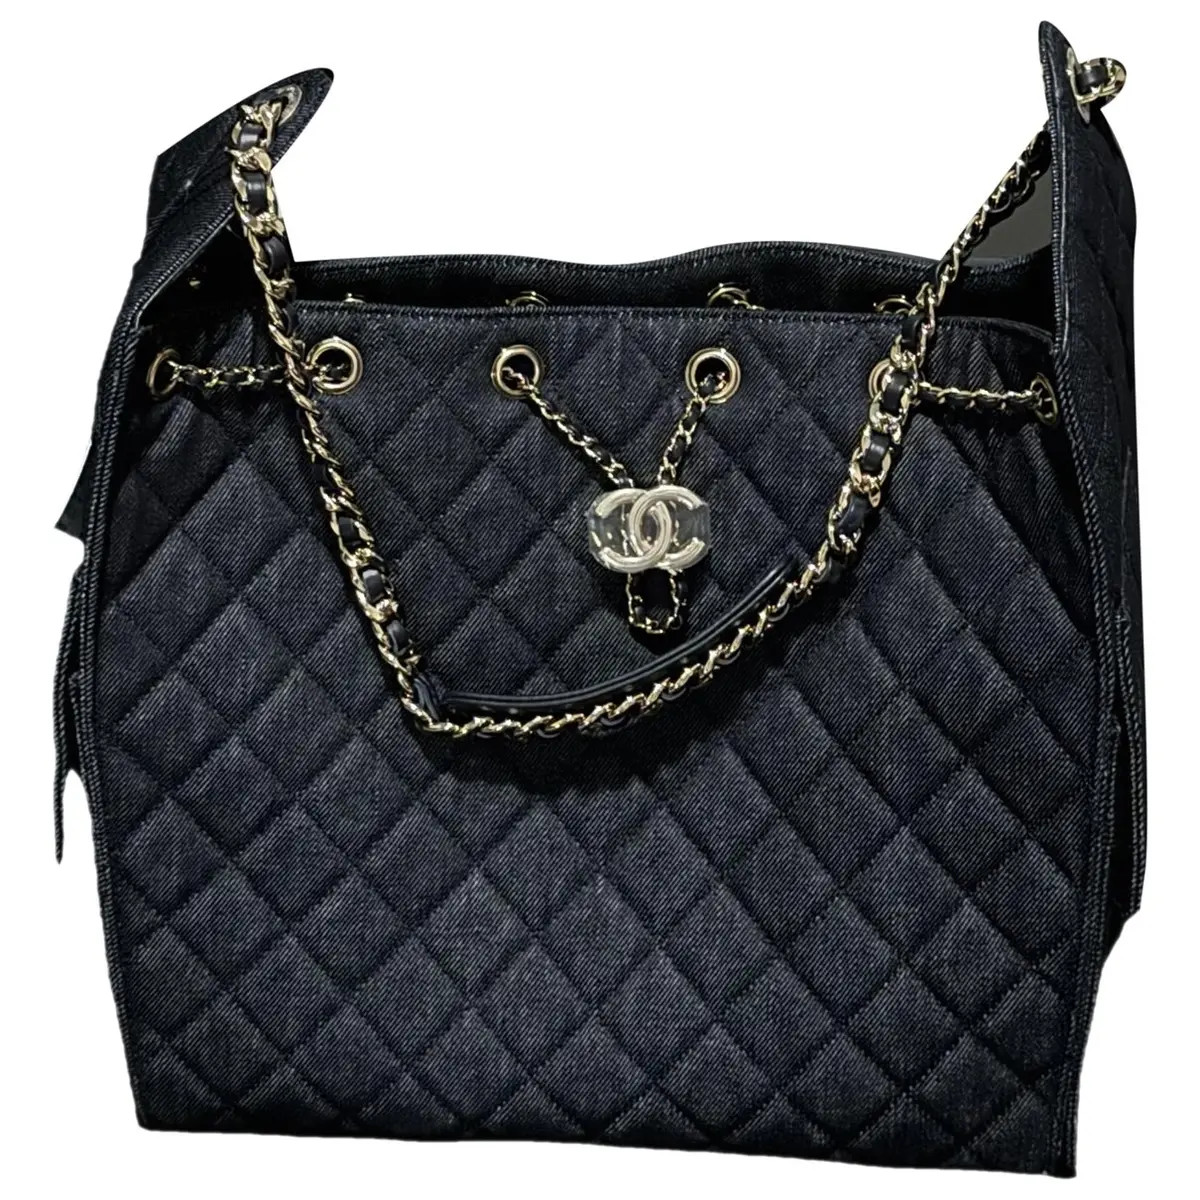
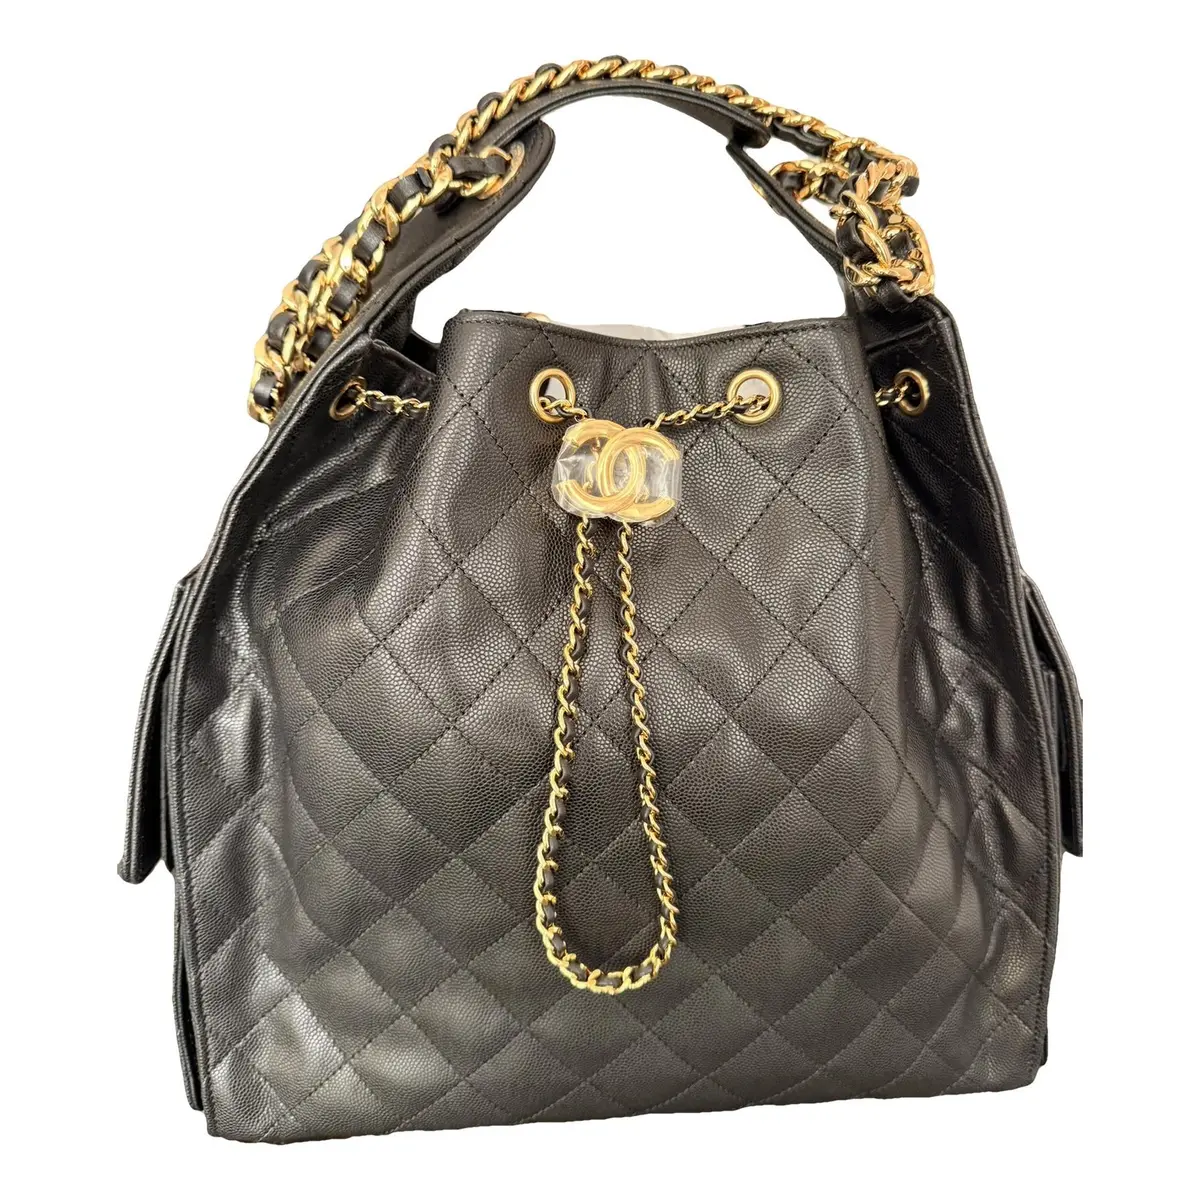
four polish fixes — 2026 image, PDP exit fade, chevron indicator, exit scroll
1) 2026 bag image — replaced the placeholder (which was a copy of
   2025_25.jpg) with a distinct black quilted Chanel hobo from
   Vestiaire. Visually different from the denim 25 in 2025.

2) PDP → year-mode exit fade. Previously the clone img src got swapped
   abruptly when leaving an editorial slide (e.g., Sofia Coppola film
   still → product bag). Now: if exiting from a non-product slide,
   clone img fades to opacity 0 (200ms), the state flip + bag src swap
   happens during the dark frame, then clone fades back to 1. Product
   slide (idx 0) skips the fade since the image is already the bag.

3) Strip indicator: in year-mode stays the slim serif "I" with feet
   top + bottom. In PDP mode (.app[data-mode="pdp"]) it transforms
   into a small downward chevron sitting above the tick row — the
   editorial captions below now have full clearance. Smooth
   320ms transition between the two indicator shapes.

4) Exit-to-grid scroll bug. The morphPrototypeToPlp scroll-to-target
   logic was using window.scrollTo, which silently fails because
   <html> is overflow:hidden and <body> is the scroll container.
   Switched to document.body.scrollTop. Fixes the "exit lands on
   wrong tile, PLP doesn't show that bag" complaint. Applied in both
   plp.js (v1) and plp-v2.js (v2).

cache-bust to v=20 (CSS) / v=13 (JS)

diff --git a/styles.css b/styles.css
@@ -302,7 +302,11 @@ body[data-slide-type="story"] #morphClone {
 
 /* Indicator — slim serif "I" mark (thin vertical hairline with tiny
    horizontal serif feet at top and bottom). Reads as typography rather
-   than instrument chrome. */
+   than instrument chrome.
+
+   In PDP mode the line transforms into a small downward chevron sitting
+   above the tick row, so the editorial captions below the ticks have
+   full vertical clearance. */
 .strip__indicator {
   position: absolute;
   left: 50%;
@@ -313,6 +317,8 @@ body[data-slide-type="story"] #morphClone {
   transform: translateX(-50%);
   pointer-events: none;
   z-index: 2;
+  transition: top 320ms var(--easing), bottom 320ms var(--easing),
+              width 320ms var(--easing), background 200ms var(--easing);
 }
 .strip__indicator::before,
 .strip__indicator::after {
@@ -323,9 +329,35 @@ body[data-slide-type="story"] #morphClone {
   height: 1px;
   background: var(--fg);
   transform: translateX(-50%);
+  transition: opacity 240ms var(--easing), transform 240ms var(--easing);
 }
 .strip__indicator::before { top: 0; }
 .strip__indicator::after  { bottom: 0; }
+
+/* PDP mode — replace the I-line with a small downward chevron above the
+   ticks. We hide the vertical line + bottom serif, and use the top
+   pseudo-element rotated 45° as the chevron tip. */
+.app[data-mode="pdp"] .strip__indicator {
+  top: 0;
+  bottom: auto;
+  height: 6px;
+  width: 0;                /* line collapses */
+  background: transparent;
+}
+.app[data-mode="pdp"] .strip__indicator::before {
+  /* Top serif foot rotates into a small chevron pointing down */
+  width: 8px;
+  height: 8px;
+  background: transparent;
+  border-right: 1.4px solid var(--fg);
+  border-bottom: 1.4px solid var(--fg);
+  top: -2px;
+  transform: translateX(-50%) rotate(45deg);
+}
+.app[data-mode="pdp"] .strip__indicator::after {
+  /* Bottom serif foot disappears in PDP */
+  opacity: 0;
+}
 
 /* Soft fade at the strip edges so ticks don't snap visually
    into existence; gives the picker a "wheel" depth. */

diff --git a/script.js b/script.js
@@ -589,17 +589,36 @@ function enterPDP() {
 function exitPDP() {
   if (mode === 'browse') return;
   const restoreYear = lockedBag ? lockedBag.year : YEAR_MIN;
-  lockedBag = null;
-  mode = 'browse';
-  app.dataset.mode = 'browse';
 
-  hideStoryCard();
+  // Smooth image swap: if we're leaving from an editorial slide (not
+  // the product slide), the clone img is currently showing an editorial
+  // photo. Fade it out, swap to the product bag underneath, then fade
+  // back in — instead of the instant src swap that read as a jolt.
+  const cloneImg = document.querySelector('#morphClone img');
+  const onEditorialSlide = lockedBag && slideIdx > 0;
 
-  // The browse rail is still positioned where the user left it before tapping
-  // the bag (browseTx didn't change). But yearF might be different from
-  // restoreYear (user dragged to 1997 → entered PDP at 1996). Re-sync.
-  lastBagShown = null;
-  setYear(restoreYear);
+  const finishExit = () => {
+    lockedBag = null;
+    mode = 'browse';
+    app.dataset.mode = 'browse';
+    hideStoryCard();
+    lastBagShown = null;
+    setYear(restoreYear);
+    if (cloneImg) {
+      cloneImg.style.transition = 'opacity 240ms ease';
+      cloneImg.style.opacity = '1';
+    }
+  };
+
+  if (onEditorialSlide && cloneImg) {
+    cloneImg.style.transition = 'opacity 200ms ease';
+    cloneImg.style.opacity = '0';
+    setTimeout(finishExit, 200);
+  } else {
+    // Product slide (idx 0) — clone is already showing the product bag,
+    // no fade needed. Flip state immediately.
+    finishExit();
+  }
 }
 
 bagLayer.addEventListener('click', () => { if (mode === 'browse') enterPDP(); });

diff --git a/plp-v2.js b/plp-v2.js
@@ -269,14 +269,19 @@ function morphPrototypeToPlp() {
   // Scroll the (still-hidden) PLP so the target tile is centered in
   // the viewport. .app (position:fixed) covers the whole screen during
   // browse mode so the scroll happens invisibly.
+  // <html> is overflow:hidden globally; <body> is the actual scroll
+  // container — so we write to document.body.scrollTop (not
+  // window.scrollTo) and read from document.body.scrollTop.
   if (wasCard) {
     document.body.style.overflow = 'auto';
-    document.documentElement.style.overflow = 'auto';
     void document.body.offsetHeight;
     const tileRect0 = sourceEl.getBoundingClientRect();
-    const desiredScroll = (window.scrollY || document.documentElement.scrollTop) +
-                          tileRect0.top - (window.innerHeight - tileRect0.height) / 2;
-    window.scrollTo(0, Math.max(0, desiredScroll));
+    const currentScroll = document.body.scrollTop ||
+                          document.documentElement.scrollTop || 0;
+    const desiredScroll = currentScroll +
+                          tileRect0.top -
+                          (window.innerHeight - tileRect0.height) / 2;
+    document.body.scrollTop = Math.max(0, desiredScroll);
     void document.body.offsetHeight;
   }
 

diff --git a/index-v2.html b/index-v2.html
@@ -5,7 +5,7 @@
   <meta name="viewport" content="width=device-width, initial-scale=1, viewport-fit=cover, user-scalable=no" />
   <meta name="theme-color" content="#ffffff" />
   <title>Chanel bag — Vestiaire Collective · v2</title>
-  <link rel="stylesheet" href="styles.css?v=19" />
+  <link rel="stylesheet" href="styles.css?v=20" />
 </head>
 <body data-state="plp">
 
@@ -186,8 +186,8 @@
     </svg>
   </button>
 
-  <script src="assets/stories.js?v=12"></script>
-  <script src="script.js?v=12"></script>
-  <script src="plp-v2.js?v=12"></script>
+  <script src="assets/stories.js?v=13"></script>
+  <script src="script.js?v=13"></script>
+  <script src="plp-v2.js?v=13"></script>
 </body>
 </html>

diff --git a/index.html b/index.html
@@ -5,7 +5,7 @@
   <meta name="viewport" content="width=device-width, initial-scale=1, viewport-fit=cover, user-scalable=no" />
   <meta name="theme-color" content="#ffffff" />
   <title>Chanel bag — Vestiaire Collective</title>
-  <link rel="stylesheet" href="styles.css?v=19" />
+  <link rel="stylesheet" href="styles.css?v=20" />
 </head>
 <body data-state="plp">
 
@@ -177,8 +177,8 @@
     </svg>
   </button>
 
-  <script src="assets/stories.js?v=10"></script>
-  <script src="script.js?v=10"></script>
-  <script src="plp.js?v=10"></script>
+  <script src="assets/stories.js?v=13"></script>
+  <script src="script.js?v=13"></script>
+  <script src="plp.js?v=13"></script>
 </body>
 </html>
